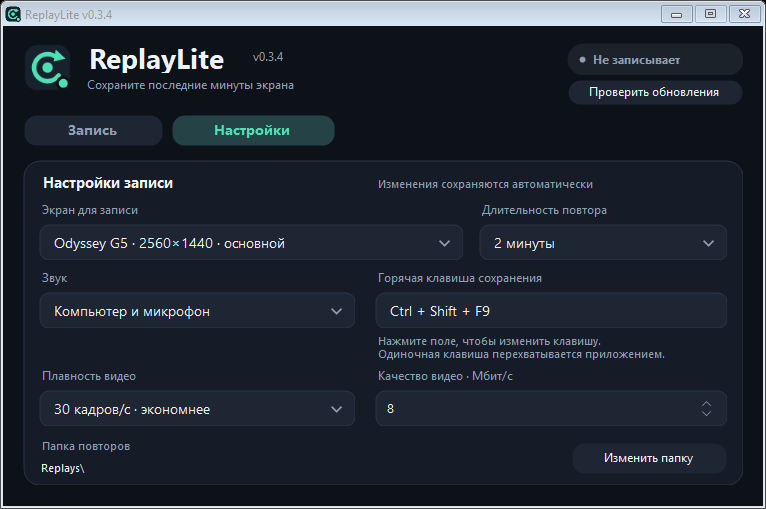
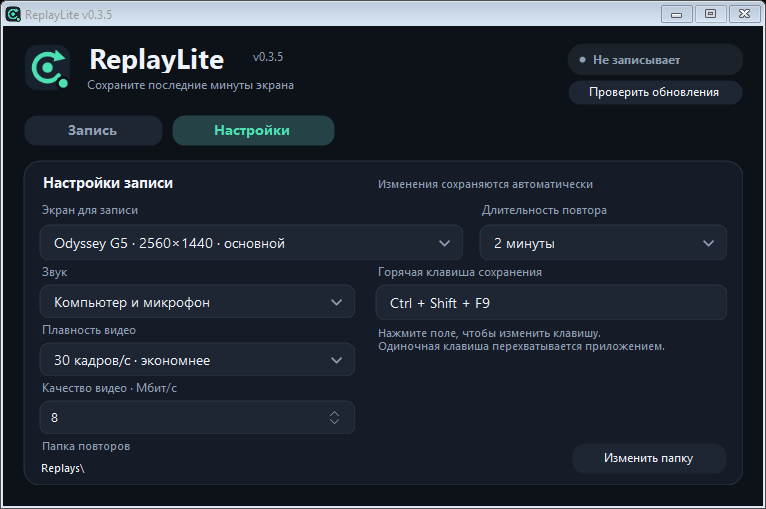
Group audio and video settings on the left and hotkey on the right

diff --git a/source/MainForm.cs b/source/MainForm.cs
@@ -79,25 +79,26 @@ namespace ReplayLite
             RefreshMonitors(); AddInput(options, display, 16, 64, 424, "Экран для записи");
             duration.Items.AddRange(new object[] { "30 секунд", "2 минуты", "5 минут", "10 минут" }); duration.SelectedIndex = settings.Seconds == 30 ? 0 : settings.Seconds == 300 ? 2 : settings.Seconds == 600 ? 3 : 1;
             AddInput(options, duration, 456, 64, 248, "Длительность повтора");
-            LabelAt(options, "Звук", 16, 110, 316, 20, 9, false, Theme.Muted);
-            LabelAt(options, "Горячая клавиша сохранения", 352, 110, 352, 20, 9, false, Theme.Muted);
+            LabelAt(options, "Звук", 16, 104, 316, 18, 9, false, Theme.Muted);
+            LabelAt(options, "Горячая клавиша сохранения", 352, 104, 352, 18, 9, false, Theme.Muted);
             sound.Items.AddRange(new object[] { "Компьютер и микрофон", "Только звук компьютера", "Без звука" }); sound.SelectedIndex = settings.Audio == "none" ? 2 : settings.Audio == "system" ? 1 : 0;
-            AddInput(options, sound, 16, 132, 316, "Источники звука");
-            hotkey.Binding = settings.Hotkey; AddInput(options, hotkey, 352, 132, 352, "Горячая клавиша сохранения");
-            hotkeyInfo.SetBounds(352, 174, 352, 29); hotkeyInfo.BackColor = Theme.Card; hotkeyInfo.ForeColor = Theme.Muted; hotkeyInfo.Font = new Font("Segoe UI", 8); options.Controls.Add(hotkeyInfo);
+            AddInput(options, sound, 16, 124, 316, "Источники звука");
+            hotkey.Binding = settings.Hotkey; AddInput(options, hotkey, 352, 124, 352, "Горячая клавиша сохранения");
+            hotkeyInfo.SetBounds(352, 166, 352, 40); hotkeyInfo.BackColor = Theme.Card; hotkeyInfo.ForeColor = Theme.Muted; hotkeyInfo.Font = new Font("Segoe UI", 8); options.Controls.Add(hotkeyInfo);
             hotkey.CaptureStarted += delegate { if (hotkeyRegistered) Native.UnregisterHotKey(Handle, 1); hotkeyRegistered = false; hotkeyInfo.Text = "Нажмите сочетание и отпустите клавиши.\nДля отмены щёлкните вне поля."; };
             hotkey.CaptureCancelled += delegate { if (!released) RegisterConfiguredHotkey(); };
             hotkey.CaptureFailed += delegate { hotkeyInfo.ForeColor = Theme.Red; hotkeyInfo.Text = "Не удалось включить ввод. Повторите попытку; прежняя клавиша сохранена."; };
             hotkey.BindingProposed += delegate(object sender, BindingEventArgs e) { e.Accepted = TryChangeHotkey(e.Binding); };
-            LabelAt(options, "Плавность видео", 16, 208, 316, 20, 9, false, Theme.Muted); LabelAt(options, "Качество видео · Мбит/с", 352, 208, 352, 20, 9, false, Theme.Muted);
+            LabelAt(options, "Плавность видео", 16, 162, 316, 18, 9, false, Theme.Muted); LabelAt(options, "Качество видео · Мбит/с", 16, 220, 316, 18, 9, false, Theme.Muted);
             fps.Items.AddRange(new object[] { "30 кадров/с · экономнее", "60 кадров/с · плавнее" }); fps.SelectedIndex = settings.Fps == 60 ? 1 : 0;
             rate.Minimum = 2; rate.Maximum = 30; rate.Value = settings.Mbps;
-            AddInput(options, fps, 16, 230, 316, "Частота кадров"); AddInput(options, rate, 352, 230, 352, "Битрейт");
+            AddInput(options, fps, 16, 182, 316, "Частота кадров"); AddInput(options, rate, 16, 240, 316, "Битрейт");
             LabelAt(options, "Папка повторов", 16, 279, 518, 19, 8, false, Theme.Muted);
             folder.Text = settings.Folder; folder.ReadOnly = true; folder.BorderStyle = BorderStyle.None; folder.BackColor = Theme.Card; folder.ForeColor = Theme.Text; folder.Font = new Font("Segoe UI", 8.5f); folder.SetBounds(18, 301, 516, 18); folder.TabStop = false; options.Controls.Add(folder);
             StyleButton(browse, "Изменить папку", options, 548, 282, 156, 32, false); browse.Font = new Font("Segoe UI", 9);
             browse.Click += delegate { using (var dialog = new FolderBrowserDialog { SelectedPath = folder.Text, Description = "Папка для сохранённых MP4" }) if (dialog.ShowDialog(this) == DialogResult.OK) { folder.Text = dialog.SelectedPath; CaptureOptionsChanged(this, EventArgs.Empty); } };
             foreach (var control in new Control[] { duration, display, sound, hotkey, fps, rate }) control.Height = 36;
+            foreach (var control in new Control[] { sound, fps, rate }) control.Height = 34;
             foreach (var select in new[] { duration, fps, sound, display }) select.SelectedIndexChanged += CaptureOptionsChanged;
             rate.ValueChanged += CaptureOptionsChanged;
             tips.SetToolTip(display, "Записывается весь выбранный экран. Для записи монитор должен быть подключён к NVIDIA.");

diff --git a/UI-VALIDATION.md b/UI-VALIDATION.md
@@ -1,5 +1,10 @@
 # Проверка обновлённого интерфейса — 14 октября 2026
 
+## Проверки версии 0.3.5 — 16 октября 2026
+
+- Повторно пройдены автоматические проверки интерфейса после перестановки полей: границы контролов, одинаковый размер вкладок, раскрытие списков, автосохранение, горячие клавиши, сохранение синтетического видео и работа в трее.
+- Снимок вкладки настроек проверен визуально: звук, плавность и качество находятся слева, горячая клавиша и подсказка — справа. Окно осталось 760×480 px при масштабе 100%.
+
 ## Проверки версии 0.3.4 — 16 октября 2026
 
 - Во всех четырёх выпадающих списках проверены фактические границы строк, цвет подсветки у правого края и скруглённая область окна. Списки раскрыты, выбраны и повторно открыты 20 раз без вылета.

diff --git a/README.md b/README.md
@@ -41,7 +41,7 @@
   <img src="assets/docs/settings.png" alt="Вкладка Настройки: монитор, длительность, звук, горячая клавиша, FPS, битрейт и папка повторов" width="760">
 </p>
 
-Параметры собраны во вкладке **«Настройки»** и сохраняются автоматически. Обе вкладки используют одно окно 760×480 px при масштабе 100%; переключение не меняет его размер. Версия указана рядом с названием и в заголовке окна.
+Параметры собраны во вкладке **«Настройки»** и сохраняются автоматически. Звук, плавность и качество видео расположены слева, горячая клавиша — справа. Обе вкладки используют одно окно 760×480 px при масштабе 100%; переключение не меняет его размер. Версия указана рядом с названием и в заголовке окна.
 
 ## Возможности и преимущества
 

diff --git a/docs/RELEASING.md b/docs/RELEASING.md
@@ -8,8 +8,8 @@
 4. Создайте и отправьте новый тег, совпадающий с `VERSION`:
 
 ```powershell
-git tag v0.3.4
-git push origin v0.3.4
+git tag v0.3.5
+git push origin v0.3.5
 ```
 
 Workflow `.github/workflows/build-release.yml` проверит версию тега, загрузит зависимости с проверкой SHA256, соберёт и проверит EXE, создаст Portable ZIP и установщик Inno Setup из отдельных файлов, проверит реальную установку обоих режимов, откат/перезапуск обновления и создаст контрольные суммы. Публикация сначала создаёт draft, загружает файлы и только затем открывает релиз пользователям.

diff --git a/CHANGELOG.md b/CHANGELOG.md
@@ -1,5 +1,9 @@
 # История изменений
 
+## 0.3.5 — 16 октября 2026
+
+- Настройки звука, плавности и качества видео расположены вертикально в левой колонке; горячая клавиша сохранения и её подсказка — в правой. Размер окна сохранён.
+
 ## 0.3.4 — 16 октября 2026
 
 - Строки выпадающих списков и подсветка выбора занимают всю ширину раскрытого меню, включая список мониторов.
